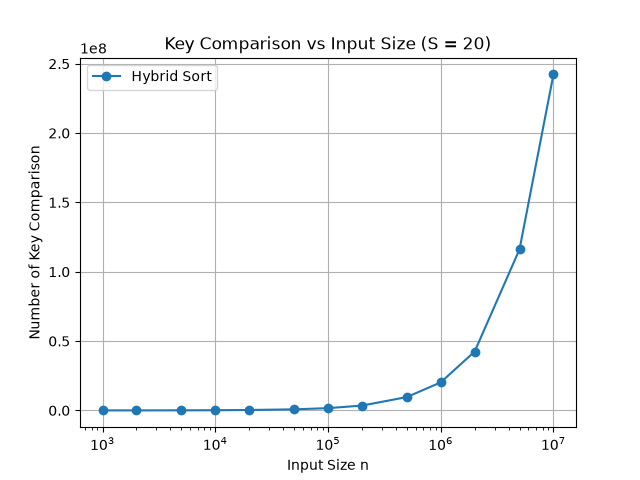
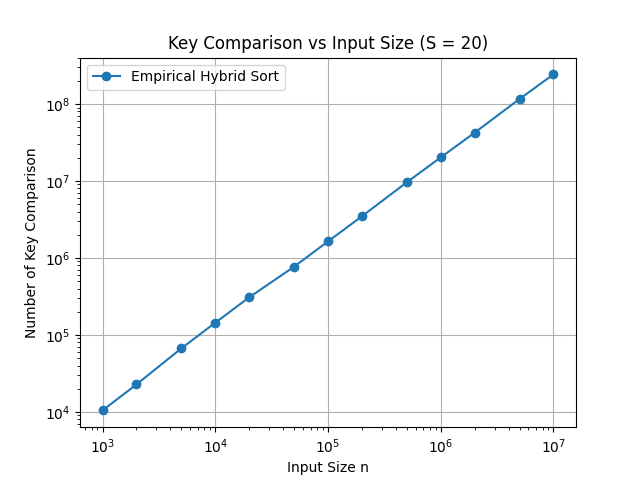
Added part c(ii)

diff --git a/experiment.py b/experiment.py
@@ -1,5 +1,6 @@
 import gc 
 import time 
+import math
 
 import matplotlib.pyplot as plt
 from hybrid_sort import generate_random_array, run_hybrid_sort, run_merge_sort
@@ -10,18 +11,29 @@ from hybrid_sort import generate_random_array, run_hybrid_sort, run_merge_sort
 n_values = [1000,2000,5000,10000,20000,50000,100000,200000,500000,1000000,2000000,5000000,10000000]
 S = 20
 comparison_results = []
+ratio_results = []
 
 print("----------------------")
 print("   Experiment c(i)")
 print("----------------------")
+
 for n in n_values:
     arr = generate_random_array(n)
+
     comparison = run_hybrid_sort(arr, S)
     comparison_results.append(comparison)
-    print("n =", n, "comparison =", comparison)
 
-plt.plot(n_values,comparison_results,marker = "o",label = "Hybrid Sort")
+    theoretical = n * math.log2(n)
+
+    ratio = comparison / theoretical
+    ratio_results.append(ratio)
+
+    print("n =", n,"comparisons =", comparison,"ratio =", f"{ratio:.4f}")
+
+plt.figure()
+plt.plot(n_values,comparison_results,marker = "o",label = "Empirical Hybrid Sort")
 plt.xscale("log")
+plt.yscale("log")
 plt.xlabel("Input Size n")
 plt.ylabel("Number of Key Comparison")
 plt.title(f"Key Comparison vs Input Size (S = {S})")
@@ -31,11 +43,28 @@ plt.grid()
 plt.savefig("part_c_i_.png")
 plt.show()
 
+plt.figure()
+plt.plot(n_values, ratio_results, marker="o", label="Empirical Ratio")
+plt.xscale("log")
+
+plt.axhline(y=1, linestyle="--", label="Ratio = 1")
+
+plt.ylim(0.8, 1.2)
+
+plt.xlabel("Input Size n")
+plt.ylabel("Comparisons / (n log2 n)")
+plt.title("Ratio of Empirical Comparisons to n log2(n)")
+
+plt.legend()
+plt.grid()
+plt.savefig("part_c_i_ratio.png")
+plt.show()
+
 #----------------------
 #   Experiment c(ii)
 #----------------------
 n_value_ii = 100000
-s_value = [1,2,5,10,20,50,100,200,500,1000]
+s_value = [1,2,5,10,20,50,100,200]
 
 comparison_results_ii = []
 
@@ -44,11 +73,16 @@ print("----------------------")
 print("   Experiment c(ii)")
 print("----------------------")
 for s_ii in s_value:
-    comparsion_ii = run_hybrid_sort(arr_ii, s_ii)
-    comparison_results_ii.append(comparsion_ii)
-    print("S =", s_ii, "comparison =", comparsion_ii)
+    arr_copy = arr_ii.copy()  # Ensure we sort the same array for each S
 
+    comparison_ii = run_hybrid_sort(arr_copy, s_ii)
+    comparison_results_ii.append(comparison_ii)
+
+    print("S =", s_ii, "comparison =", comparison_ii)
+
+plt.figure()
 plt.plot(s_value, comparison_results_ii, marker="o")
+plt.xscale("log")
 
 plt.xlabel("Threshold S")
 plt.ylabel("Number of Key Comparisons")
@@ -220,4 +254,3 @@ plt.ylabel(f"CPU Time (seconds, best of {trials} trials)")
 plt.title(f"CPU Time: Hybrid vs Classic Merge Sort (n = {n_d})")
 plt.savefig("part_d_time.png")
 plt.show()
- 
